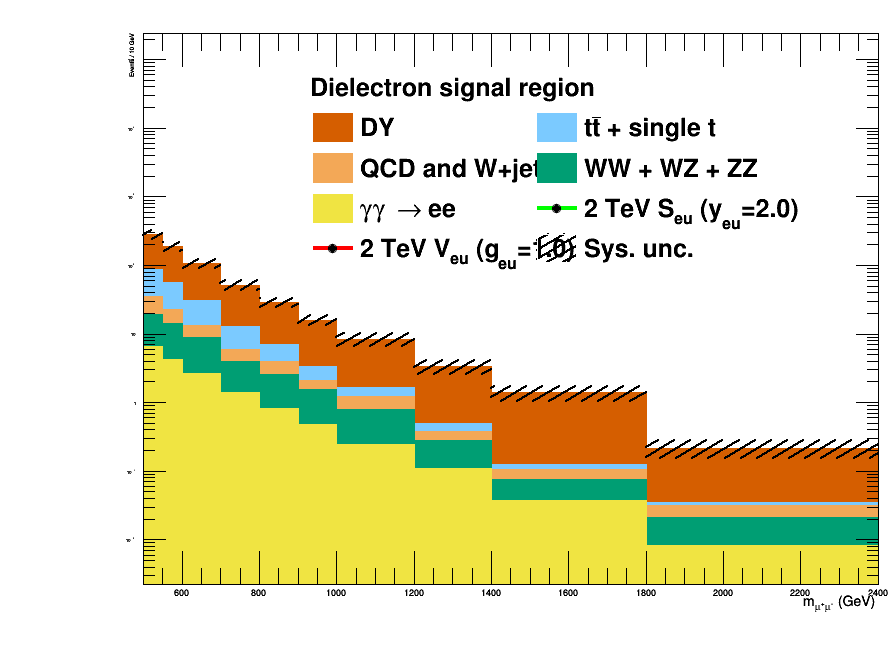
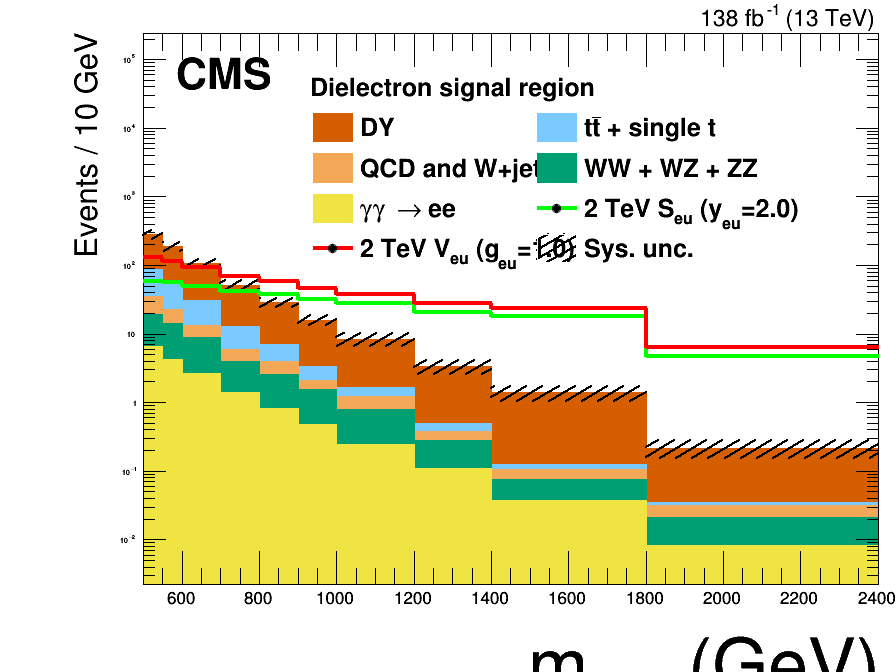
plots without data and ratio

diff --git a/plots/ElEl/draw_cmp_from_saved.C b/plots/ElEl/draw_cmp_from_saved.C
@@ -427,7 +427,8 @@ void draw_cmp_from_saved(){
     float hmin = 0.1;
     sprintf(y_ax_label, "Events / %.0f GeV", mbin_base);
     std::tie(c_m, p_m) = make_stack_ratio_plot(data_m, m_stack, leg1, "m", "m_{ee} (GeV)",y_ax_label, plot_label, hmax, logy, logx, draw_sys_uncs, ratio_range, false, hmin);
-    CMS_lumi(p_m, year, 11 );
+    //CMS_lumi(p_m, year, 11 );
+    CMS_lumi(c_m, year, 11 );
     LQu_m->Draw("hist  same");
     LQu_vec_m->Draw("hist  same");
     sprintf(plt_file, "%sElElComb_m_cmp.png", plot_dir);
@@ -461,7 +462,8 @@ void draw_cmp_from_saved(){
 
     sprintf(y_ax_label, "Events / %.1f", cost_bin_size);
     std::tie(c_cost, p_cost) = make_stack_ratio_plot(data_cost, cost_stack, leg2, "cost", "cos #theta_{R}",y_ax_label, plot_label,  hmax, logy,logx, draw_sys_uncs, ratio_range);
-    CMS_lumi(p_cost, year, 11);
+    //CMS_lumi(p_cost, year, 11);
+    CMS_lumi(c_cost, year, 11 );
     LQu_cost->Draw("hist  same");
     LQu_vec_cost->Draw("hist  same");
     sprintf(plt_file, "%sElElComb_cost_cmp.png", plot_dir);
@@ -489,7 +491,8 @@ void draw_cmp_from_saved(){
 
     sprintf(y_ax_label, "Events / %.2f", rap_bin_size);
     std::tie(c_rap, p_rap) = make_stack_ratio_plot(data_rap, rap_stack, leg3, "rap", "Dielectron rapidity",y_ax_label, plot_label, hmax, logy, logx, draw_sys_uncs, ratio_range);
-    CMS_lumi(p_rap, year, 11);
+    //CMS_lumi(p_rap, year, 11);
+    CMS_lumi(p_rap, year, 11 );
     LQu_rap->Draw("hist  same");
     LQu_vec_rap->Draw("hist  same");
     sprintf(plt_file, "%sElElComb_rap_cmp.png", plot_dir);
